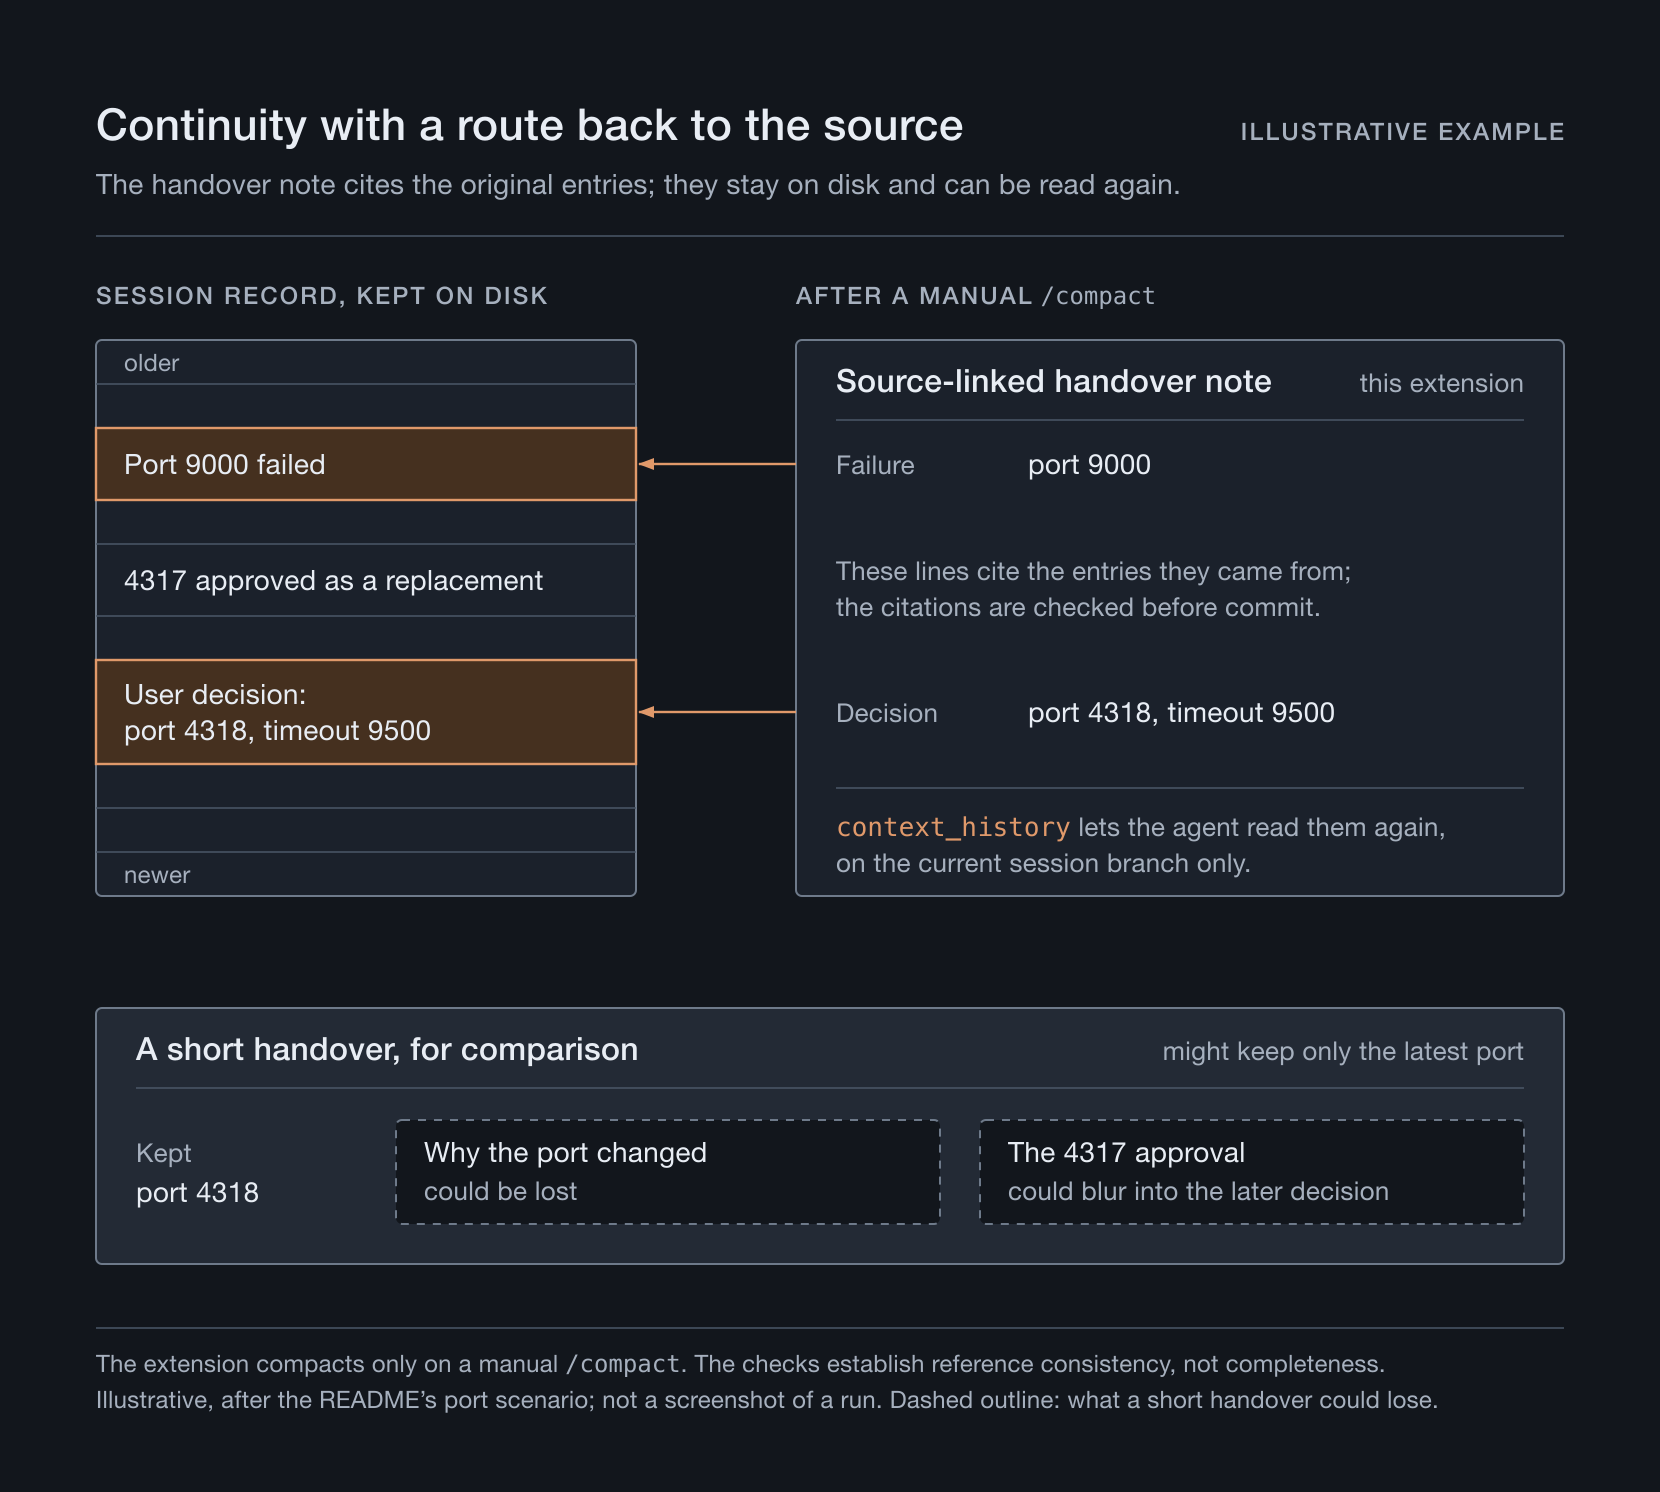
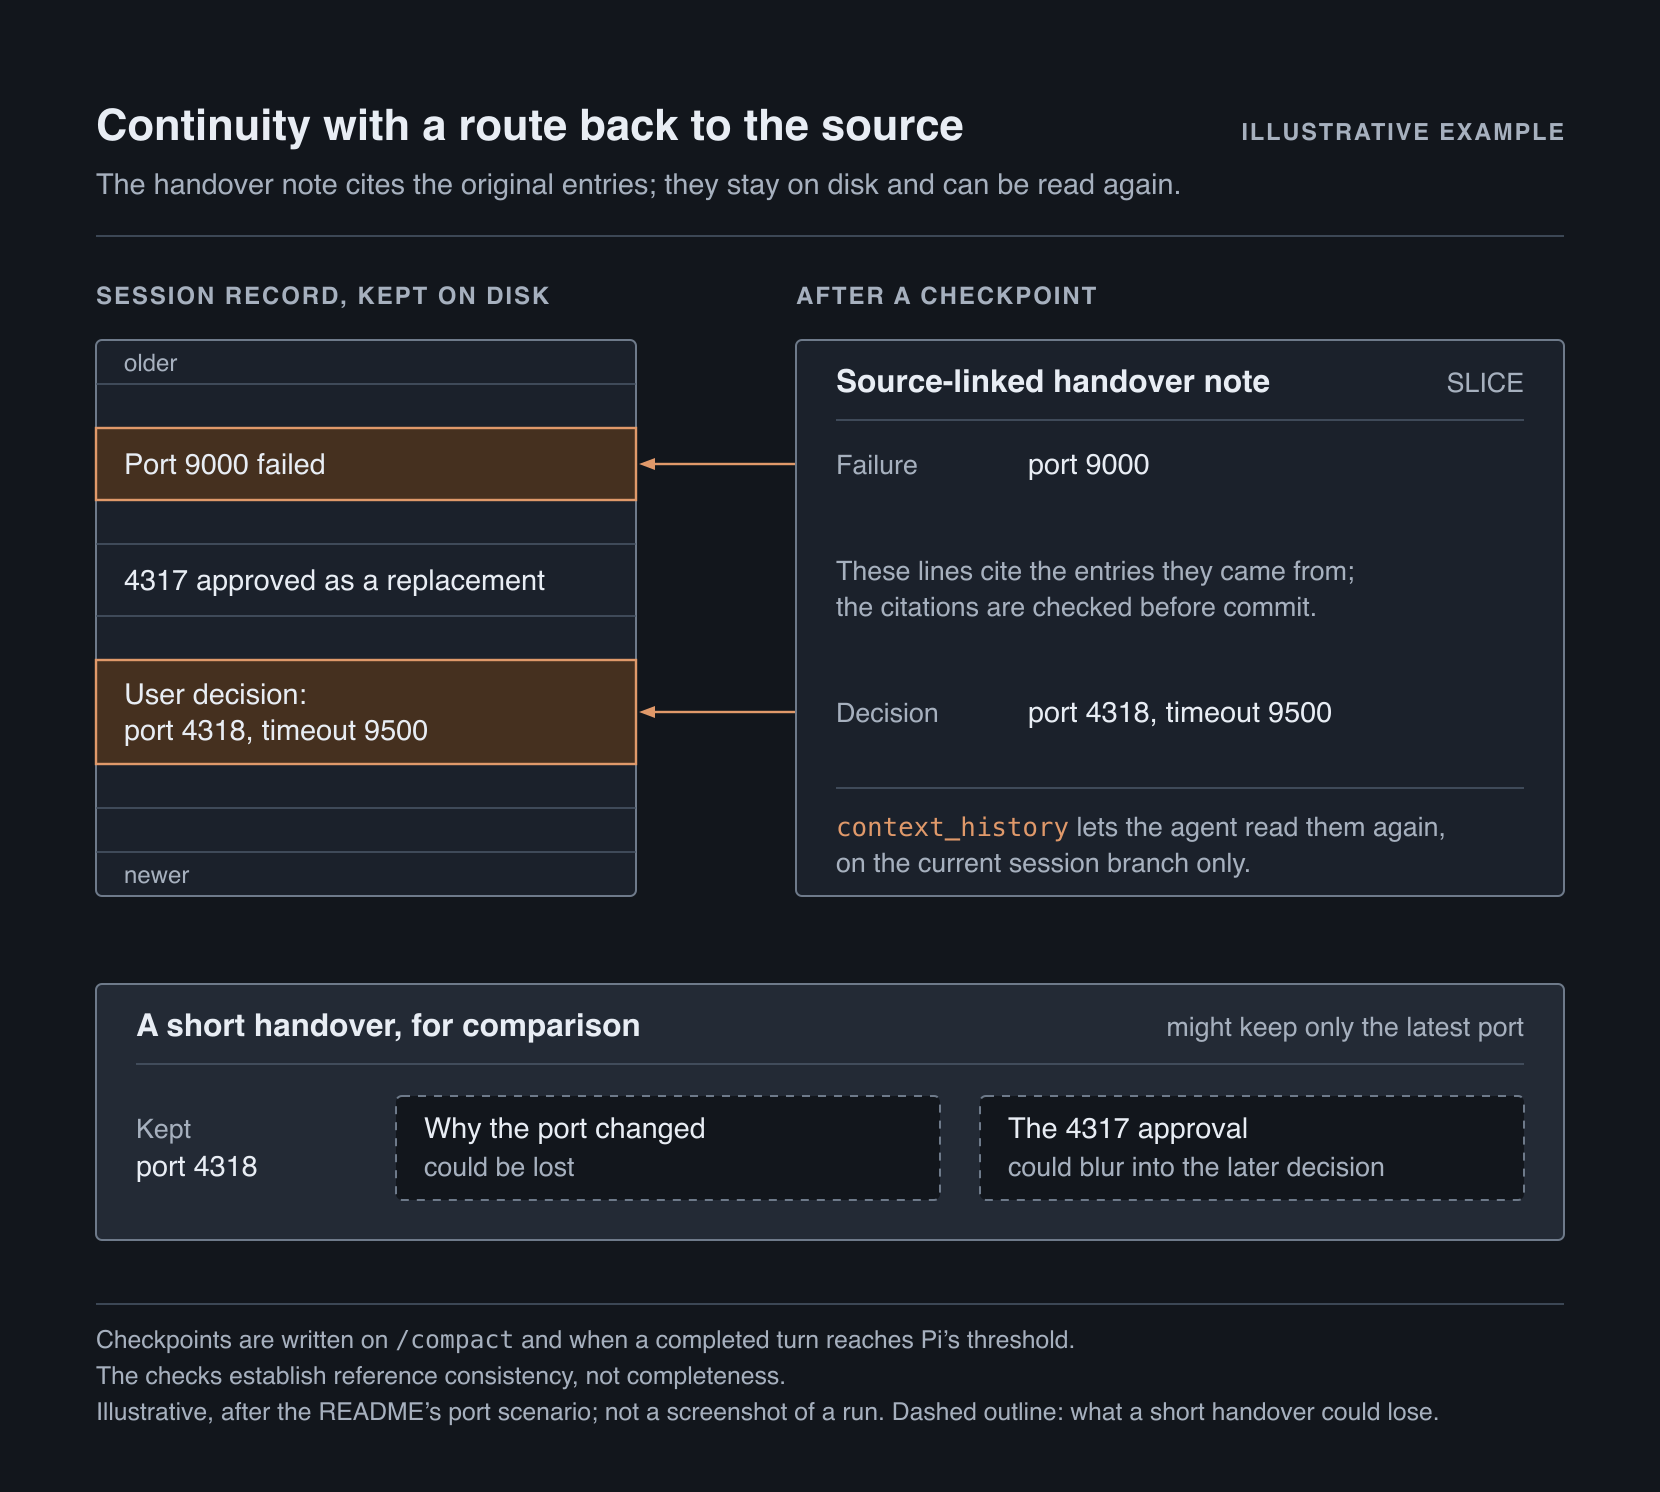
docs: redraw the commit gate and refresh the hero for SLICE
The commit-gate figure described the resident build: it said new user input
could end a block and drew no disk readback. It now shows the independent
extension's commit: four checks on the draft note, Pi's save read back from
disk, a paused session on any failure, and /compact and /compaction-recover as
the two ways out.

The hero gains SVG sources rebuilt from the PNG pair, with three wording
changes for SLICE and threshold compaction. The assets README records the
hero's sources, its 1660px render and the new commit-gate description.

diff --git a/docs/context-memory/assets/README.md b/docs/context-memory/assets/README.md
@@ -1,13 +1,13 @@
 # Diagram sources
 
-An introductory hero and three explanatory diagrams for the project [README](../../../README.md). They are drawings, not screenshots or benchmark output. The hero is supplied as a light and dark PNG pair. Each of the three explanatory diagrams is hand-authored SVG; the PNG beside it is a 1600px-wide render and is what the README embeds.
+An introductory hero and three explanatory diagrams for the project [README](../../../README.md). They are drawings, not screenshots or benchmark output. Every figure is hand-authored SVG, and the PNG beside it is the render the README embeds: 1660px wide for the hero, 1600px wide for the three diagrams.
 
 - `pi-context-compaction-hero-editorial`: the introductory illustration, focused on tracing a checked handover back to the original failure and later user decision. Its short-handover comparison illustrates what could be lost; it is not a measured comparison with another compactor.
 - `source-linked-compaction`: the two layers, the active context after compaction and the session record on disk, with the write path and the `context_history` retrieval path between them.
-- `commit-gate`: the three checks that run before a checkpoint is published, and what happens on each outcome.
+- `commit-gate`: how the extension commits a checkpoint. The draft note must pass four checks, and Pi's saved copy must be read back from disk. Any failure leaves the checkpoint uncommitted and requests paused until `/compact` commits a new checkpoint or `/compaction-recover` confirms one Pi already saved.
 - `recovery-example`: the values in the [documented provider scenario](../validation.md#real-provider-scenario), presented as an illustrative sequence in which one question needs two retrievals from two points in time.
 
-Every figure has a dark PNG counterpart with identical geometry and wording and a palette picked for a dark canvas. The three explanatory diagrams also have `*-dark.svg` sources. The README selects between the two themes with a `<picture>` element and `prefers-color-scheme`. Descriptive alt text lives on the `<img>` tag in the README.
+Every figure has a dark counterpart, a `*-dark.svg` source and its PNG render, with identical geometry and wording and a palette picked for a dark canvas. The README selects between the two themes with a `<picture>` element and `prefers-color-scheme`. Descriptive alt text lives on the `<img>` tag in the README.
 
 ## Revising a diagram
 
@@ -15,10 +15,11 @@ Edit the SVG, re-render the PNG, and apply the same change to the dark counterpa
 
 ```sh
 rsvg-convert -w 1600 source-linked-compaction.svg -o source-linked-compaction.png
+rsvg-convert -w 1660 pi-context-compaction-hero-editorial.svg -o pi-context-compaction-hero-editorial.png
 ```
 
 The SVG sources hold to a few constraints, because GitHub sanitizes SVG served through Markdown and because these files render on machines whose fonts are unknown: web-safe font stacks only, no `<style>` element, no external or remote references, explicit `width` and `height` alongside `viewBox`, and all text as real `<text>` nodes rather than paths.
 
 ## History
 
-The first two diagrams, added in PR #20, were produced with an image-generation tool and reviewed for wording, arrow direction and source semantics. They were replaced by these vector sources, and `commit-gate` was added at the same time.
+The first two diagrams, added in PR #20, were produced with an image-generation tool and reviewed for wording, arrow direction and source semantics. They were replaced by these vector sources, and `commit-gate` was added at the same time. The hero was first supplied as a PNG pair only. Its SVG sources were added when it was redrawn for the SLICE name and threshold compaction, and `commit-gate` was redrawn then for the independent extension's commit and readback.
